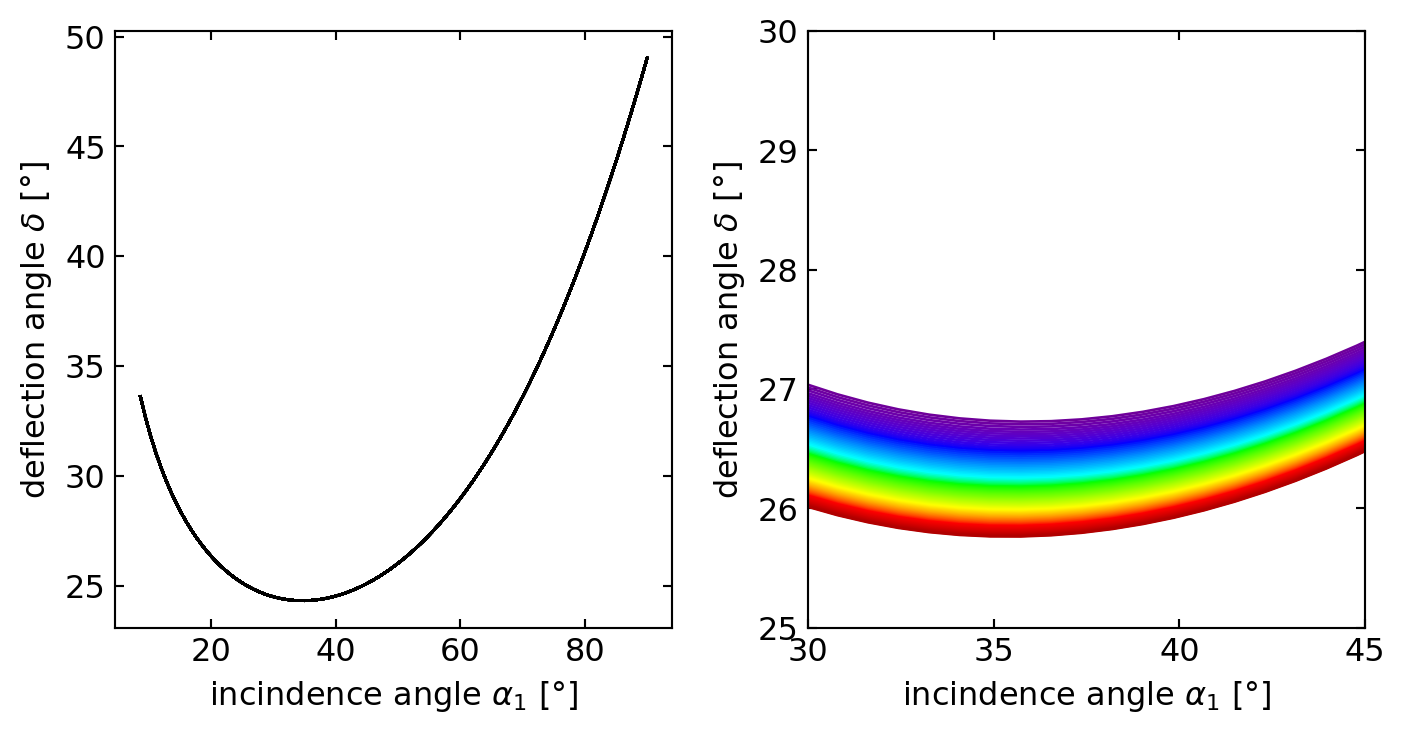
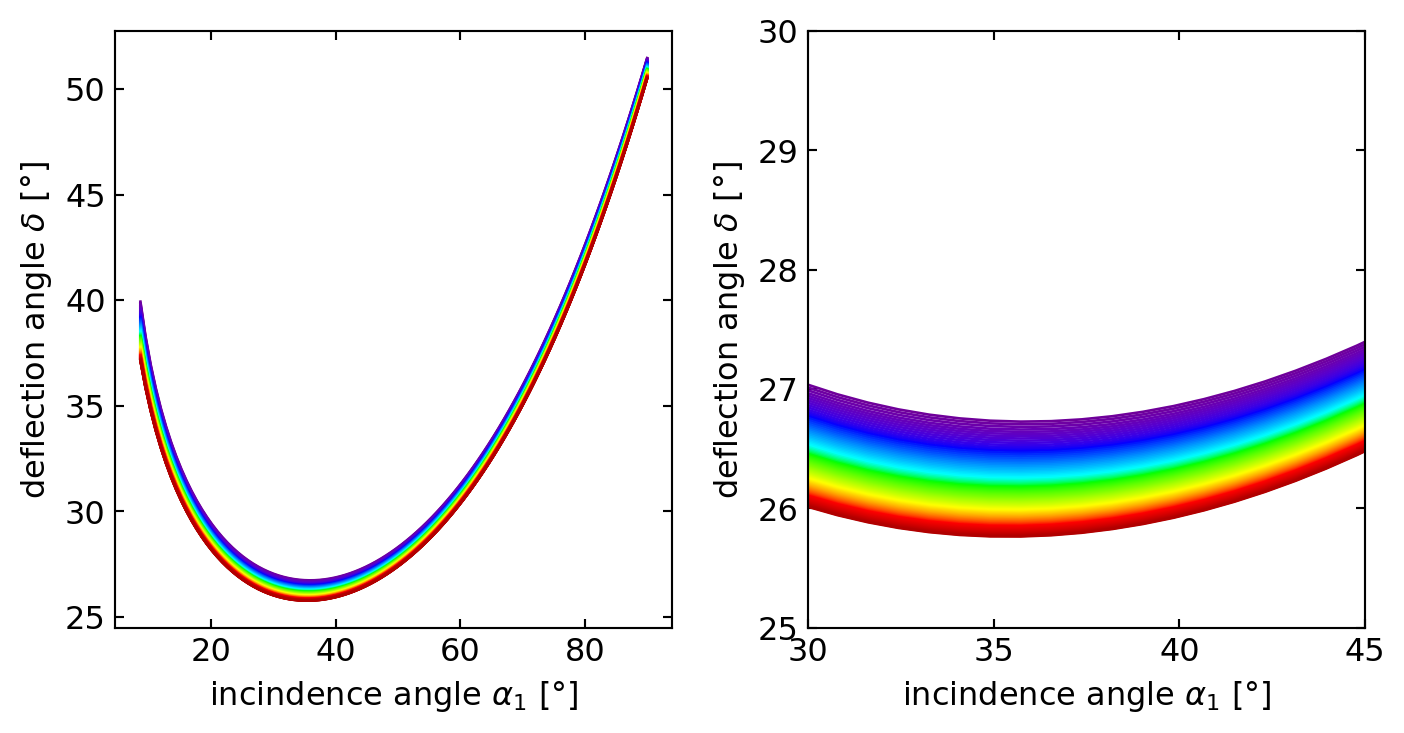
Built site for gh-pages

diff --git a/geometrical-optics/Rainbow.html b/geometrical-optics/Rainbow.html
@@ -351,7 +351,7 @@ window.Quarto = {
 </header>
 
 
-<div id="4275d6ae" class="cell" data-execution_count="1">
+<div id="c1d0ed24" class="cell" data-execution_count="1">
 <div class="sourceCode cell-code" id="cb1"><pre class="sourceCode python code-with-copy"><code class="sourceCode python"><span id="cb1-1"><a href="#cb1-1" aria-hidden="true" tabindex="-1"></a><span class="co">## just for plotting later</span></span>
 <span id="cb1-2"><a href="#cb1-2" aria-hidden="true" tabindex="-1"></a></span>
 <span id="cb1-3"><a href="#cb1-3" aria-hidden="true" tabindex="-1"></a><span class="im">import</span> pandas <span class="im">as</span> pd</span>
@@ -391,7 +391,7 @@ window.Quarto = {
 <p>such that finally</p>
 <p><span class="math display">\[\phi=4\sin^{-1}\left (\frac{n_{\rm air}}{n_{\rm water}}\sin(\alpha) \right)-2\alpha\]</span></p>
 <p>So let us have a look at this dependence of the deflection angle as a function of the incidence angle.</p>
-<div id="9e605d57" class="cell" data-execution_count="4">
+<div id="bd73f579" class="cell" data-execution_count="4">
 <div class="cell-output cell-output-display">
 <div class="quarto-figure quarto-figure-center">
 <figure class="figure">
@@ -402,7 +402,7 @@ window.Quarto = {
 </div>
 </div>
 <p>The dependence seems to show a maximum deflection angle at an incidence angle of around <span class="math inline">\(\alpha=60^{\circ}\)</span>. This is an important finding, as the whole appearance of the rainbow depends on that.</p>
-<div id="8061e2df" class="cell" data-execution_count="5">
+<div id="0d7141ff" class="cell" data-execution_count="5">
 <div class="cell-output cell-output-stdout">
 <pre><code>Maximum deflection angle  41.78815648670841</code></pre>
 </div>
@@ -411,7 +411,7 @@ window.Quarto = {
 <section id="color-of-the-rainbow" class="level3">
 <h3 class="anchored" data-anchor-id="color-of-the-rainbow">Color of the rainbow</h3>
 <p>The color of the rainbow is now the result of the fact that the maximum deflection angle depends on the color of the light due to the dispersion. Since we have a refraction, reflection and another refraction, the largest maximum deflection angle is observed for red light, while the smallest one appears for blue light. The diagrams below show this result, which is in general true for materials with normal dispersion.</p>
-<div id="06bf7bfb" class="cell" data-execution_count="6">
+<div id="fbeb80aa" class="cell" data-execution_count="6">
 <div class="cell-output cell-output-display">
 <div class="quarto-figure quarto-figure-center">
 <figure class="figure">
@@ -423,7 +423,7 @@ window.Quarto = {
 </div>
 <p>This order of the colors is actually true for all incident angles, which raises the question, why the rainbow is actually colored. The blue color of a certain incidence angle would actually overlap with the green color of a different incidence angle and the red color of an even different incidence angle. If you select a specific outgoing angle under which you observe the rainbow, let us say 41°, then you find under this observation angle all color and, therefore, should observe always white light.</p>
 <p>This is actually true if you look at the inside of a rainbow. You clearly recognize that inside the rainbow it is much brighter than outside. Yet when you reach the maximum angle of each color, you have a region, where even for larger angles for the incidence angles, the deflection angle does not change. Thus, if you assume you send in rays at constantly spaced incidence angles, you will have more rays with a deflection angle close to the maximum. The diagram below just counts the number of deflection angles in the different for each color and you clearly see that around the maximum deflection angles for each color you have a strong peak.</p>
-<div id="d9d51d23" class="cell" data-execution_count="7">
+<div id="83b3d78b" class="cell" data-execution_count="7">
 <div class="cell-output cell-output-display">
 <div class="quarto-figure quarto-figure-center">
 <figure class="figure">

diff --git a/geometrical-optics/Optical Elements II.html b/geometrical-optics/Optical Elements II.html
@@ -611,8 +611,8 @@ Figure&nbsp;3: Refractive index of different glasses as a function of the wavele
 <span id="cb3-3"><a href="#cb3-3" aria-hidden="true" tabindex="-1"></a>plt.figure(figsize<span class="op">=</span>(<span class="fl">7.5</span>,<span class="dv">4</span>))</span>
 <span id="cb3-4"><a href="#cb3-4" aria-hidden="true" tabindex="-1"></a>plt.subplot(<span class="dv">1</span>,<span class="dv">2</span>,<span class="dv">1</span>)</span>
 <span id="cb3-5"><a href="#cb3-5" aria-hidden="true" tabindex="-1"></a><span class="cf">for</span> wl <span class="kw">in</span> np.linspace(<span class="fl">0.400</span>,<span class="fl">0.700</span>,<span class="dv">100</span>):</span>
-<span id="cb3-6"><a href="#cb3-6" aria-hidden="true" tabindex="-1"></a>    n1<span class="op">=</span>np.interp(wl<span class="op">*</span><span class="dv">1000</span>,bk7.wl,bk7.n)</span>
-<span id="cb3-7"><a href="#cb3-7" aria-hidden="true" tabindex="-1"></a>    c<span class="op">=</span>wavelength_to_rgb(wl, gamma<span class="op">=</span><span class="fl">0.8</span>)</span>
+<span id="cb3-6"><a href="#cb3-6" aria-hidden="true" tabindex="-1"></a>    n1<span class="op">=</span>np.interp(wl,bk7.wl,bk7.n)</span>
+<span id="cb3-7"><a href="#cb3-7" aria-hidden="true" tabindex="-1"></a>    c<span class="op">=</span>wavelength_to_rgb(wl<span class="op">*</span><span class="dv">1000</span>, gamma<span class="op">=</span><span class="fl">0.8</span>)</span>
 <span id="cb3-8"><a href="#cb3-8" aria-hidden="true" tabindex="-1"></a>    plt.plot(a_1<span class="op">*</span><span class="dv">180</span><span class="op">/</span>np.pi,deflection(a_1,<span class="dv">45</span>,<span class="dv">1</span>,n1)<span class="op">*</span><span class="dv">180</span><span class="op">/</span>np.pi,color<span class="op">=</span>c)</span>
 <span id="cb3-9"><a href="#cb3-9" aria-hidden="true" tabindex="-1"></a></span>
 <span id="cb3-10"><a href="#cb3-10" aria-hidden="true" tabindex="-1"></a>plt.xlabel(<span class="vs">r"incindence angle $\alpha_1$ [°]"</span>)</span>

diff --git a/geometrical-optics/Optical Elements III.html b/geometrical-optics/Optical Elements III.html
@@ -406,7 +406,7 @@ Paraxial Approximation
 <li>The error increases rapidly for larger angles, indicating the limitations of the paraxial approximation.</li>
 </ol>
 <p>In most optical systems, especially those involving lenses, the angles of incident and refracted rays are typically small enough for this approximation to be valid. However, it’s important to be aware of its limitations when dealing with wide-angle optical systems or scenarios where precision is critical.</p>
-<div id="cfd2c139" class="cell" data-execution_count="2">
+<div id="9d0d0938" class="cell" data-execution_count="2">
 <details class="code-fold">
 <summary>Code</summary>
 <div class="sourceCode cell-code" id="cb1"><pre class="sourceCode python code-with-copy"><code class="sourceCode python"><span id="cb1-1"><a href="#cb1-1" aria-hidden="true" tabindex="-1"></a><span class="im">import</span> numpy <span class="im">as</span> np</span>
